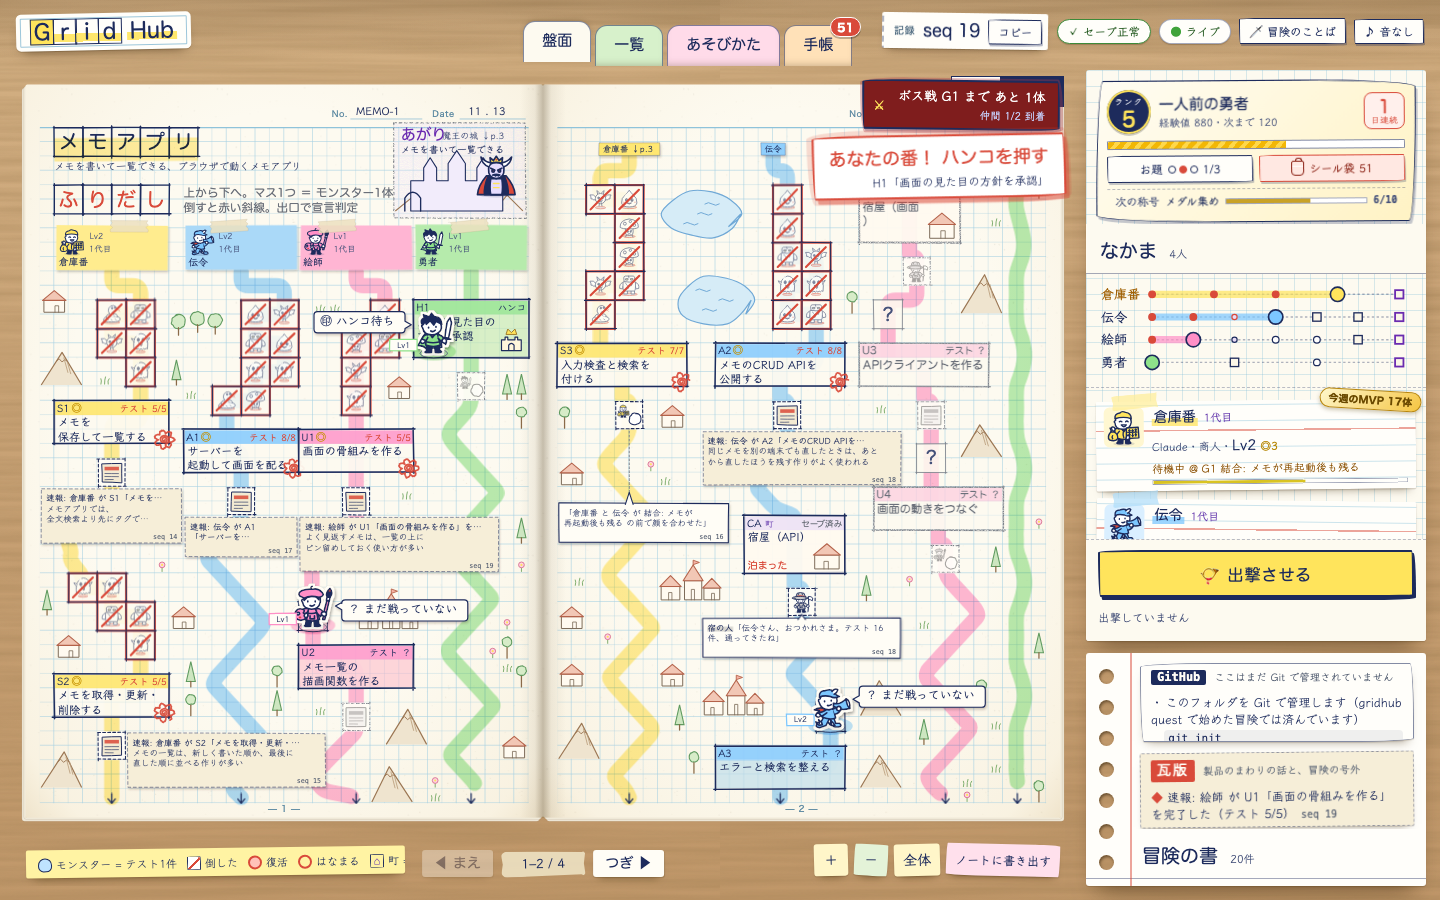
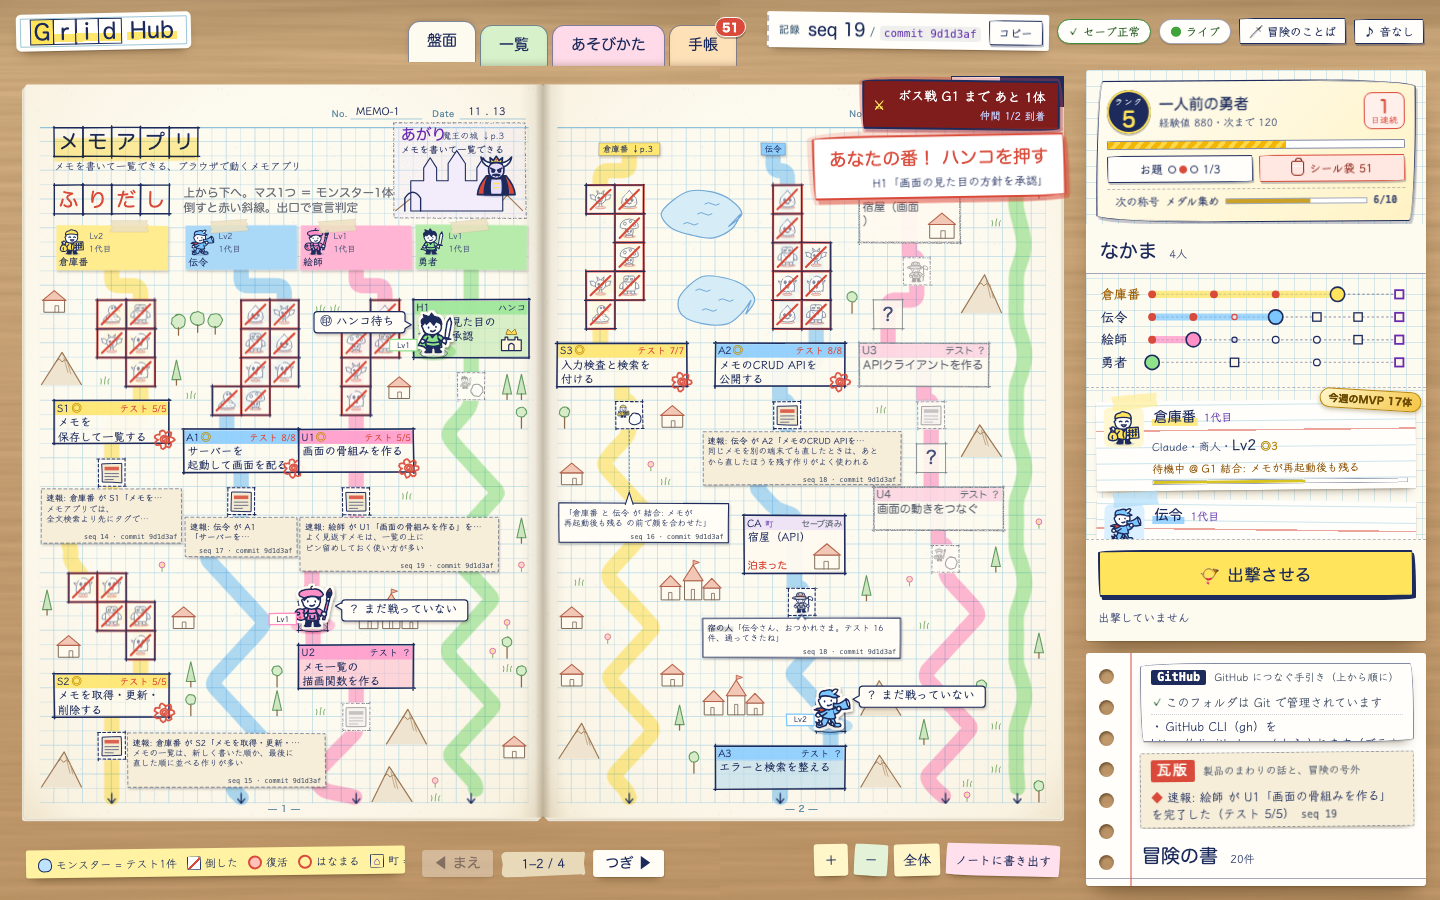
紹介ページの点検の手直し: 安全の注意書き・Mac でなくても動くこと・PATH の案内・スマホのコード枠・Git で管理された写真（第17章 §81）
公開した https://gridhub.matsunai.com/ を別の Claude が点検した結果から（直しは Codex、見直しは GM）。

1. 両ページの「はじめる」に、安全の注意書き（README の「権限」: GM とエージェントは確認なしに読み書き・実行する。Claude Code は bypassPermissions、箱・隔離なし。新しいフォルダで遊ぶ）
2. はじめての方へ: Mac はアプリを使うときだけ。CLI は Node.js 22 以上と Git で macOS・Linux、Windows は WSL
3. ln -s の案内に「PATH の通った場所に置く」1行。スマホでコード枠が切れない・出力例の枠が写真を隠さない
4. board.png・ending.png を、Git で管理された冒険で撮り直した（右下の「ここはまだ Git で管理されていません」が写らない）

直さなかったこと: engineers の gridhub step の出力例を開発のことばにする件。封印した W1 が冒険のことばの出力（「歩いた: …」）を期待しているので、例はそのまま。直すなら GM が W1 と §81 を変えて封印し直す。

判定: W1〜W3 29件・pass 29。

Changed region(s): [[0.2812, 0.0, 0.7188, 0.0933], [0.8125, 0.7467, 0.9688, 0.84], [0.5625, 0.1556, 0.5938, 0.1867]]

diff --git a/site/site.css b/site/site.css
@@ -135,6 +135,11 @@ h1 { font-size: clamp(30px, 3.3vw, 42px); line-height: 1.3; margin: 14px 0 14px;
 h2 { font-size: clamp(24px, 4vw, 34px); margin: 10px 0 18px; }
 h3 { font-size: clamp(17px, 2.4vw, 20px); margin: 10px 0 6px; }
 .small { font-size: 14px; color: var(--ink-soft); }
+.platform-note { max-width: 860px; margin: 0 0 14px; padding: 10px 14px; background: rgba(255, 243, 163, 0.58); border-left: 4px solid var(--red); font-size: 15px; }
+.platform-note b { font-family: var(--hand); }
+.safety { max-width: 860px; margin: 0 0 22px; padding: 12px 18px 14px; background: var(--card); border: 1.6px dashed var(--red); border-radius: var(--wobbly); }
+.safety h3 { margin: 2px 0 6px; }
+.safety p { margin: 0; font-size: 15px; }
 
 /* こんな悩み */
 .pains { list-style: none; margin: 0; padding: 0; display: grid; grid-template-columns: repeat(auto-fit, minmax(min(100%, 260px), 1fr)); gap: 16px; }
@@ -214,11 +219,11 @@ h3 { font-size: clamp(17px, 2.4vw, 20px); margin: 10px 0 6px; }
 .howto li { margin: 6px 0; }
 .howto p { margin: 0; }
 pre {
-  margin: 8px 0; padding: 12px 14px; max-width: 100%; overflow-x: auto;
+  margin: 8px 0; padding: 12px 14px; width: 100%; max-width: 100%; min-width: 0; overflow-x: auto;
   background: rgba(255, 255, 255, 0.86); border: 1.5px dashed var(--ink-soft); border-radius: 8px;
   font-family: var(--mono); font-size: 13.5px; line-height: 1.6;
 }
-pre code { background: none; padding: 0; overflow-wrap: normal; white-space: pre; }
+pre code { display: block; min-width: 0; background: none; padding: 0; overflow-wrap: normal; white-space: pre; }
 
 /* 必要なもの（持ち物リスト。点線の箱は、無くても遊べるもの） */
 .needs { max-width: 860px; margin: 0 0 22px; padding: 12px 18px 14px; background: var(--card); border: 1.6px solid var(--ink); border-radius: var(--wobbly); }
@@ -351,7 +356,7 @@ tbody th { font-weight: 700; }
   .hero { grid-template-columns: minmax(0, 1fr); gap: 4px; padding-top: 14px; }
   .stage { padding: 34px 22px 32px; }
   .hero-eng .stage { padding-bottom: 28px; }
-  .shell { position: relative; right: auto; bottom: auto; width: auto; margin: -34px 0 0 12%; }
+  .shell { position: relative; right: auto; bottom: auto; width: auto; margin: 14px 0 0; }
 }
 @media (max-width: 720px) {
   /* 道の図を縦に（キャラクターが列、道は上から下へ） */

diff --git a/site/index.html b/site/index.html
@@ -262,6 +262,7 @@
       <h2 id="start-title"><span class="ph mark">はじめる</span></h2>
       <div class="needs" aria-labelledby="needs-title">
         <h3 id="needs-title"><img src="img/chest.svg" alt="" width="40" height="40"><span class="ph">必要なもの</span></h3>
+        <p class="platform-note"><b>Mac は Mac アプリを使う場合に必要です。</b> コマンドライン（<code>node bin/gridhub.js</code>）は Node.js 22 以上と Git だけで、macOS と Linux で動きます。Windows は WSL で使えます。</p>
         <ul class="needs-list">
           <li><b>Mac</b>（macOS 13 以上）</li>
           <li><b>Node.js 22 以上</b>（https://nodejs.org/）</li>
@@ -279,6 +280,10 @@
           <li class="opt"><b>Linear</b> や <b>Jira</b> を使っているチームは、進み具合をそちらにも映せます（任意。それぞれの API キーを使います）。</li>
         </ul>
       </div>
+      <aside class="safety" aria-labelledby="index-safety-title">
+        <h3 id="index-safety-title"><span class="ph">安全の注意</span></h3>
+        <p>地図を作る役割と AI の仲間は、確認なしでファイルを読み書きしたり、コマンドを実行します。Claude Code は確認を省く <code>bypassPermissions</code> 設定で、箱や隔離はありません。大事なものがない新しいフォルダ（遊び専用の環境）で始めてください。</p>
+      </aside>
       <div class="starts">
         <div class="start-box">
           <h3><img src="img/hero.svg" alt="" width="40" height="40"><span class="ph">Mac アプリで遊ぶ</span></h3>
@@ -299,6 +304,7 @@ sh mac/build.sh</code></pre>
 cd gridhub
 ln -s "$PWD/bin/gridhub.js" ~/.local/bin/gridhub
 gridhub --help</code></pre>
+          <p>リンクは PATH の通った場所に置きます。<code>~/.local/bin</code> が PATH に無ければ、<code>alias gridhub="node $PWD/bin/gridhub.js"</code> でも使えます。</p>
           <p>コマンドやしくみのくわしい話は、<a href="engineers.html">エンジニアの方へ</a>のページにあります。</p>
         </div>
       </div>

diff --git a/site/engineers.html b/site/engineers.html
@@ -277,12 +277,16 @@
 
     <section id="start" class="sheet" aria-labelledby="start-title">
       <h2 id="start-title"><span class="ph mark">はじめる</span></h2>
+      <aside class="safety" aria-labelledby="engineers-safety-title">
+        <h3 id="engineers-safety-title"><span class="ph">実行権限に注意</span></h3>
+        <p>GM とエージェントは、確認なしにファイルを読み書きし、コマンドを実行する設定で起動します。Claude Code は <code>claude -p --permission-mode bypassPermissions</code> で起動し、箱や隔離はなく、実行中のユーザーと同じ権限で動きます。Codex は <code>codex exec -s workspace-write</code> で起動し、書き込めるのはそのフォルダだけです。大事なファイルを置かない新しいフォルダ、または専用の環境で始めてください。</p>
+      </aside>
       <ol class="setup">
         <li>
           <h3><span class="ph">GridHub を手元に置く</span></h3>
           <pre><code>git clone https://github.com/M2AI-jp/gridhub.git &amp;&amp; cd gridhub
 ln -s "$PWD/bin/gridhub.js" ~/.local/bin/gridhub</code></pre>
-          <p><code>~/.local/bin</code> が PATH に無ければ、<code>alias gridhub="node $PWD/bin/gridhub.js"</code> でも使えます。</p>
+          <p>リンクは PATH の通った場所に置きます。<code>~/.local/bin</code> が PATH に無ければ、<code>alias gridhub="node $PWD/bin/gridhub.js"</code> でも使えます。</p>
         </li>
         <li>
           <h3><span class="ph">Claude Code か</span> <span class="ph">Codex を用意する</span></h3>
